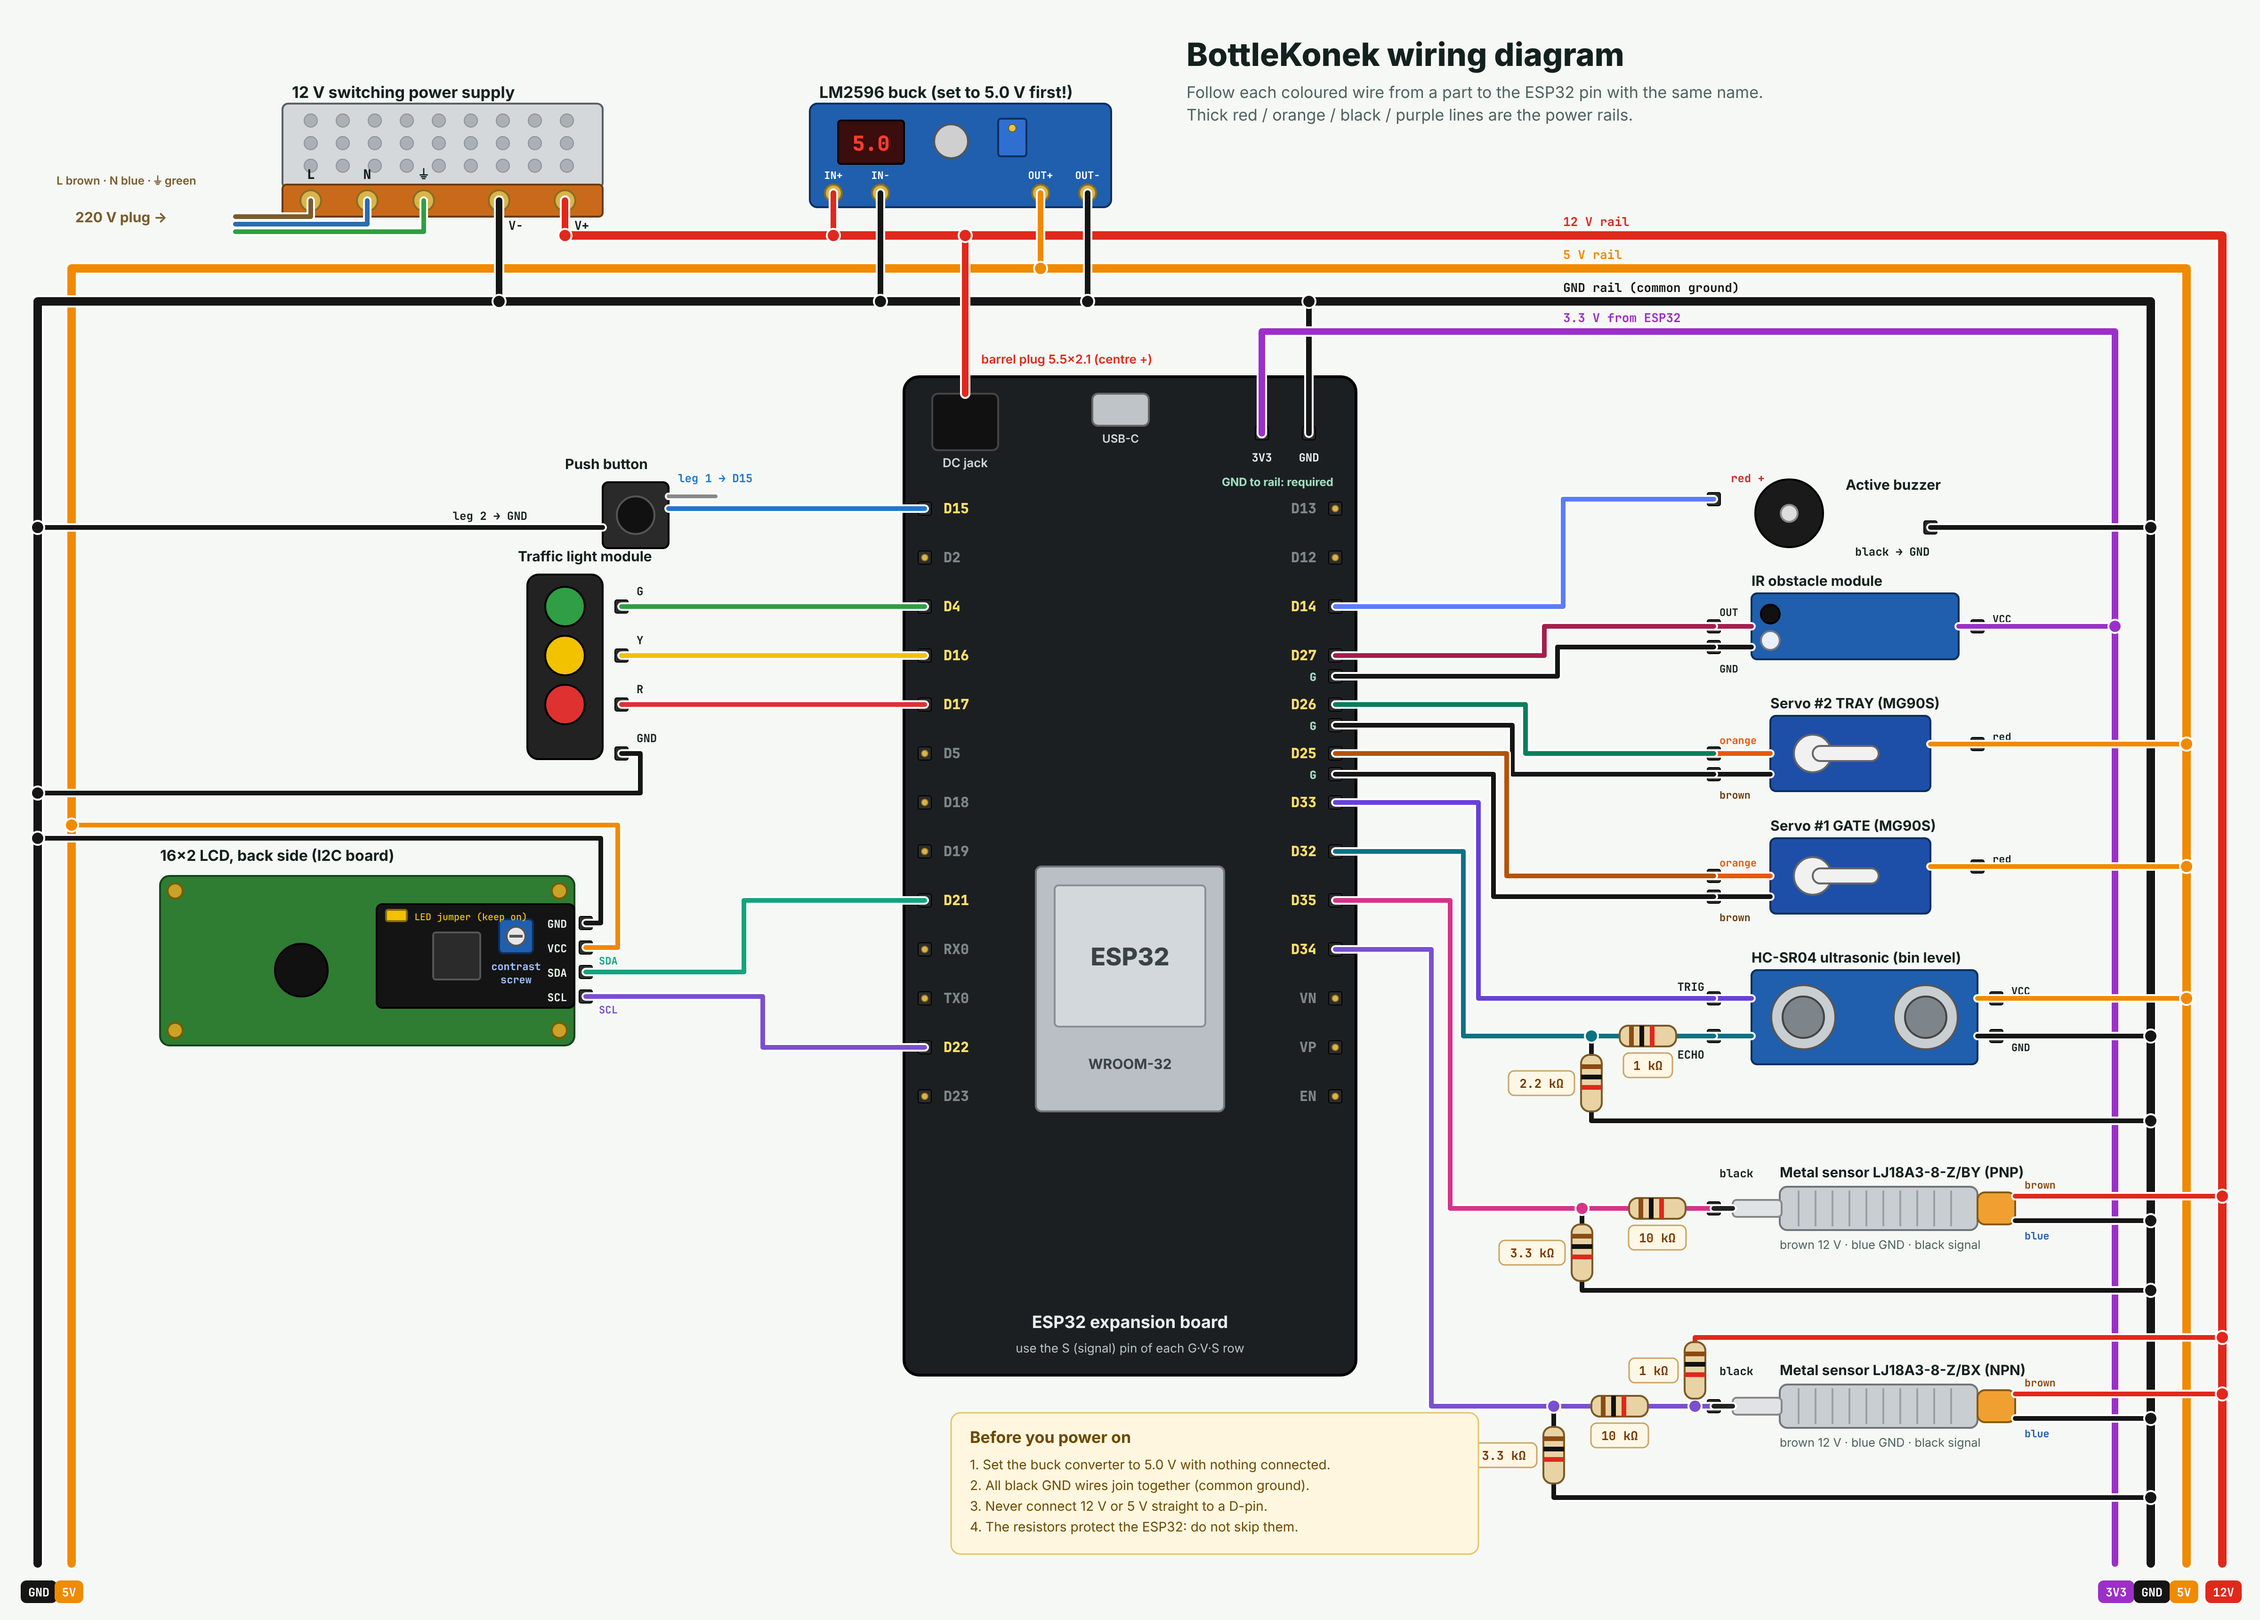
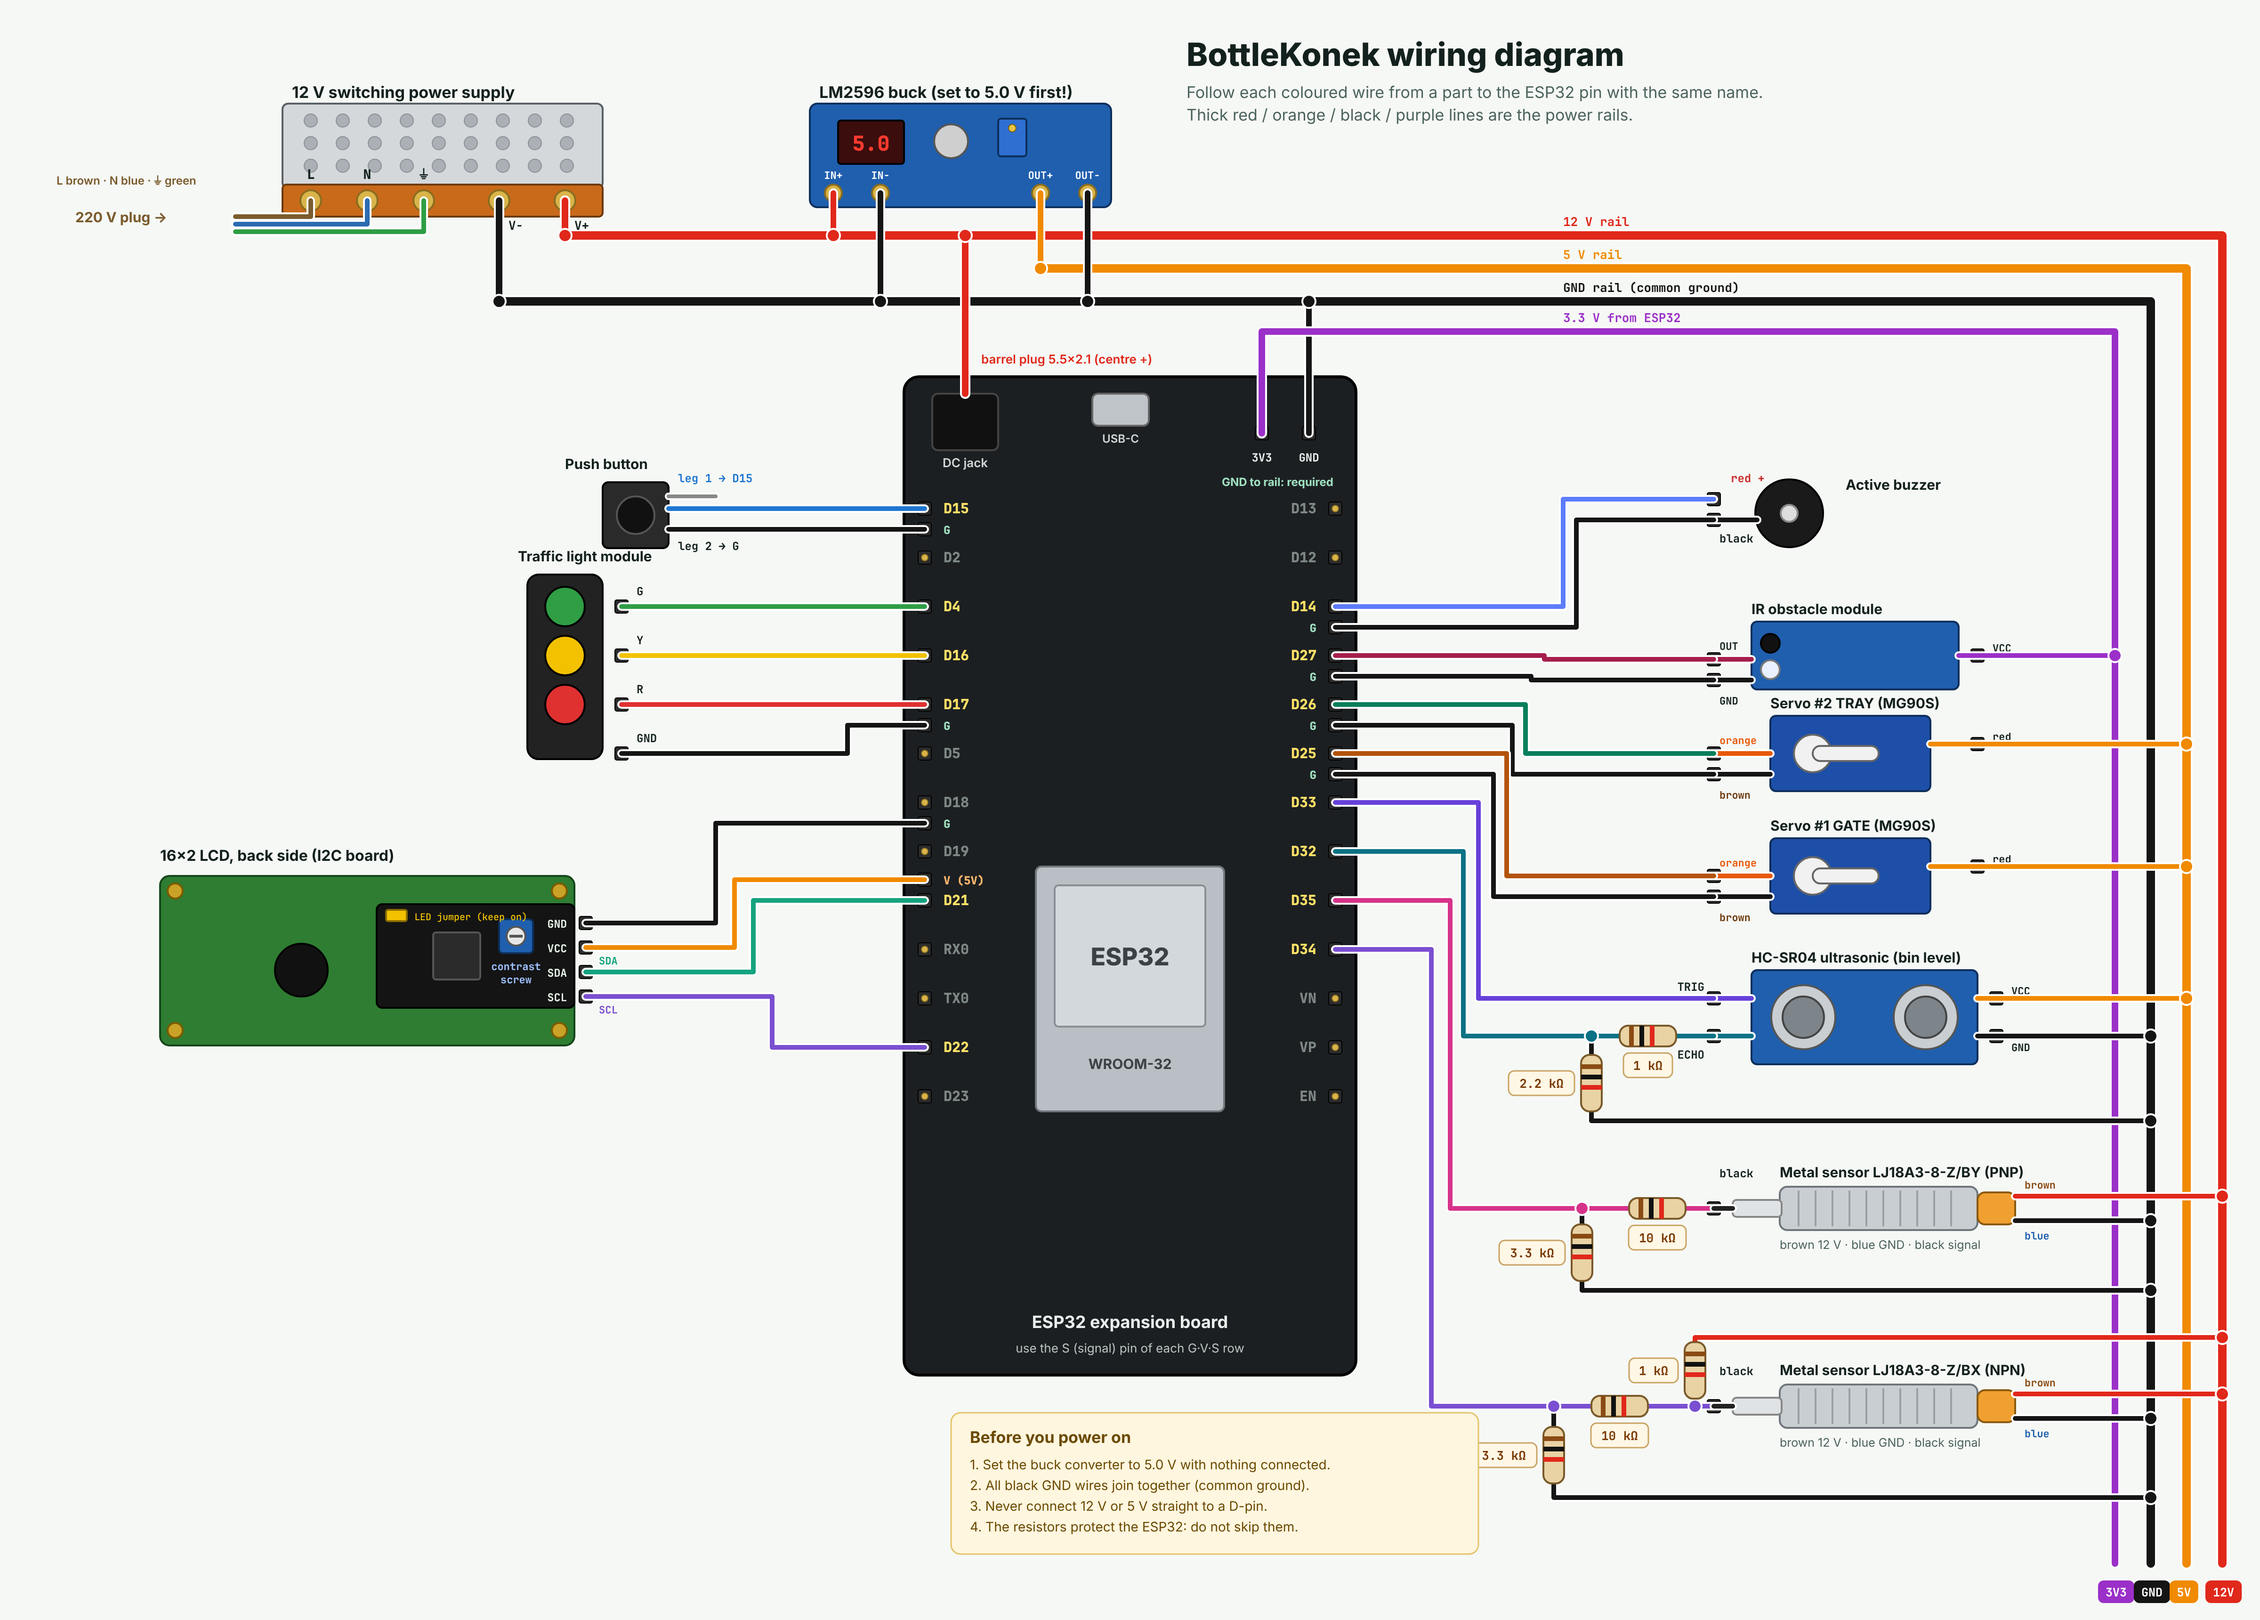
Diagram: LCD, traffic light, buzzer and button use ESP32 G/V pins; remove left rails
Claude-Session: https://claude.ai/code/session_01FLWhppZiZoj8Tbu8EAL1cu

diff --git a/firmware/make_wiring_png.py b/firmware/make_wiring_png.py
@@ -82,10 +82,8 @@ XG_L, X5_L = 40, 76
 X33_R, XG_R, X5_R, X12_R = 2246, 2284, 2322, 2360
 BOT = 1660
 wire([(600, Y12), (X12_R, Y12), (X12_R, BOT)], C['v12'], 9)
-wire([(X5_L, BOT), (X5_L, Y5), (X5_R, Y5), (X5_R, BOT)], C['v5'], 9)
-wire([(XG_L, BOT), (XG_L, YG), (XG_R, YG), (XG_R, BOT)], C['gnd'], 9)
-for x, s, col in [(XG_L, 'GND', C['gnd']), (X5_L, '5V', C['v5'])]:
-    tag(x - 18, BOT + 30, s, col)
+wire([(1105, Y5), (X5_R, Y5), (X5_R, BOT)], C['v5'], 9)
+wire([(530, YG), (XG_R, YG), (XG_R, BOT)], C['gnd'], 9)
 for x, s, col in [(X33_R, '3V3', C['v33']), (XG_R, 'GND', C['gnd']), (X5_R, '5V', C['v5']), (X12_R, '12V', C['v12'])]:
     tag(x - 18, BOT + 30, s, col)
 M(1660, Y12 - 10, '12 V rail', 13, 700, 'start', C['v12'])
@@ -180,13 +178,26 @@ def to_right_pin(name, pts, col):
     wire(pts + [(pts[-1][0], y), (RXp, y)], col)
 
 
+def left_g(name):
+    y = ry(LROWS.index(name)) + 22
+    pinhead(LX, y); M(LX + 20, y + 5, 'G', 12, 800, 'start', '#9fe0c0')
+    return y
+
+
+def left_v(name):
+    y = ry(LROWS.index(name)) - 22
+    pinhead(LX, y); M(LX + 20, y + 5, 'V (5V)', 12, 800, 'start', '#ffb86b')
+    return y
+
+
 # ---------------------------------------------------------------- LEFT: push button (D15)
 R(640, 512, 70, 70, '#2a2a2a', '#000', 6); Cc(675, 547, 20, '#111', '#555')
 T(600, 498, 'Push button', 15, 700)
 wire([(710, 527), (760, 527)], '#888', 4)
 to_left_pin('D15', [(710, 540), (900, 540)], SIGCOL[0])
-wire([(640, 560), (XG_L, 560)], C['gnd'], 5); dot(XG_L, 560, C['gnd'])
-M(720, 512, 'leg 1 → D15', 12, 700, 'start', SIGCOL[0]); M(560, 552, 'leg 2 → GND', 12, 700, 'end')
+gb = left_g('D15')
+wire([(710, gb), (LX, gb)], C['gnd'], 5)
+M(720, 512, 'leg 1 → D15', 12, 700, 'start', SIGCOL[0]); M(720, gb + 22, 'leg 2 → G', 12, 700, 'start')
 
 # ---------------------------------------------------------------- LEFT: traffic light (standing, pins on right)
 TLX, TLY = 560, 610
@@ -199,7 +210,8 @@ for n, pin, col in tl:
     to_left_pin(pin, [(TLX + 100, y), (TLX + 100, y)], col)
 gnd_y = ry(LROWS.index('D17')) + 52
 pinhead(TLX + 100, gnd_y); M(TLX + 116, gnd_y - 12, 'GND', 12, 700)
-wire([(TLX + 100, gnd_y), (TLX + 120, gnd_y), (TLX + 120, gnd_y + 42), (XG_L, gnd_y + 42)], C['gnd'], 5); dot(XG_L, gnd_y + 42, C['gnd'])
+gt = left_g('D17')
+wire([(TLX + 100, gnd_y), (900, gnd_y), (900, gt), (LX, gt)], C['gnd'], 5)
 T(TLX - 10, TLY - 14, 'Traffic light module', 15, 700)
 
 # ---------------------------------------------------------------- LEFT: 16x2 LCD with I2C board (back view)
@@ -224,12 +236,14 @@ for i, n in enumerate(['GND', 'VCC', 'SDA', 'SCL']):
     lp[n] = y
     pinhead(LCDX + 452, y); M(LCDX + 432, y + 5, n, 11.5, 700, 'end', '#e8f5e9')
 PX = LCDX + 452
-to_left_pin('D21', [(PX, lp['SDA']), (790, lp['SDA'])], SIGCOL[1])
-to_left_pin('D22', [(PX, lp['SCL']), (810, lp['SCL'])], SIGCOL[3])
+to_left_pin('D21', [(PX, lp['SDA']), (800, lp['SDA'])], SIGCOL[1])
+to_left_pin('D22', [(PX, lp['SCL']), (820, lp['SCL'])], SIGCOL[3])
 M(PX + 14, lp['SDA'] - 8, 'SDA', 11, 700, 'start', SIGCOL[1])
 M(PX + 14, lp['SCL'] + 18, 'SCL', 11, 700, 'start', SIGCOL[3])
-wire([(PX, lp['GND']), (PX + 16, lp['GND']), (PX + 16, LCDY - 40), (XG_L, LCDY - 40)], C['gnd'], 5); dot(XG_L, LCDY - 40, C['gnd'])
-wire([(PX, lp['VCC']), (PX + 34, lp['VCC']), (PX + 34, LCDY - 54), (X5_L, LCDY - 54)], C['v5'], 5); dot(X5_L, LCDY - 54, C['v5'])
+lg = left_g('D18')
+wire([(PX, lp['GND']), (760, lp['GND']), (760, lg), (LX, lg)], C['gnd'], 5)
+lv = left_v('D21')
+wire([(PX, lp['VCC']), (780, lp['VCC']), (780, lv), (LX, lv)], C['v5'], 5)
 
 # ---------------------------------------------------------------- RIGHT side parts
 CX = 1760            # left edge of right-side parts
@@ -238,11 +252,11 @@ PW = 1820            # x where signal pins sit (left edge)
 # buzzer (D14)
 Cc(1900, 545, 36, '#1a1a1a', '#000'); Cc(1900, 545, 9, '#ddd', '#888')
 T(1960, 520, 'Active buzzer', 15, 700)
-pinhead(PW, 530); pinhead(PW + 230, 560)
+pinhead(PW, 530); pinhead(PW, 552)
 M(PW + 18, 512, 'red +', 12, 700, 'start', '#c92a2a')
 to_right_pin('D14', [(PW, 530), (1660, 530)], SIGCOL[8])
-wire([(PW + 230, 560), (XG_R, 560)], C['gnd'], 5); dot(XG_R, 560, C['gnd'])
-M(PW + 150, 590, 'black → GND', 12, 700)
+wire([(PW, 552), (1866, 552)], C['gnd'], 5)
+M(PW + 6, 576, 'black', 12, 700)
 
 # ESP32 G pin next to a row's S pin (each row is G · V · S on the board)
 def board_g(name):
@@ -259,17 +273,19 @@ def gnd_to_board(name, ys, ch):
     wire([(PW, ys), (gx, ys), (gx, gy), (RXp, gy)], C['gnd'], 5)
 
 
+gnd_to_board('D14', 552, 1660)   # buzzer black
+
 # IR module (D27): OUT + GND go to the ESP32 row D27, VCC to 3V3
-R(1860, 630, 220, 70, '#1f5fae', '#0d2f5c', 6)
-Cc(1880, 652, 10, '#111', '#000'); Cc(1880, 680, 10, '#e9f0ff', '#777')
-T(1860, 622, 'IR obstacle module', 15, 700)
-pinhead(PW, 665); pinhead(PW, 687)
-M(PW + 6, 654, 'OUT', 11, 700); M(PW + 6, 714, 'GND', 11, 700)
-wire([(PW, 665), (1860, 665)], SIGCOL[9]); wire([(PW, 687), (1860, 687)], C['gnd'], 5)
-to_right_pin('D27', [(PW, 665), (1640, 665)], SIGCOL[9])
-gnd_to_board('D27', 687, 1640)
-pinhead(2100, 665); M(2116, 661, 'VCC', 11)
-wire([(2080, 665), (X33_R, 665)], C['v33'], 5); dot(X33_R, 665, C['v33'])
+R(1860, 660, 220, 72, '#1f5fae', '#0d2f5c', 6)
+Cc(1880, 683, 10, '#111', '#000'); Cc(1880, 711, 10, '#e9f0ff', '#777')
+T(1860, 652, 'IR obstacle module', 15, 700)
+pinhead(PW, 700); pinhead(PW, 722)
+M(PW + 6, 690, 'OUT', 11, 700); M(PW + 6, 748, 'GND', 11, 700)
+wire([(PW, 700), (1860, 700)], SIGCOL[9]); wire([(PW, 722), (1860, 722)], C['gnd'], 5)
+to_right_pin('D27', [(PW, 700), (1640, 700)], SIGCOL[9])
+gnd_to_board('D27', 722, 1640)
+pinhead(2100, 696); M(2116, 692, 'VCC', 11)
+wire([(2080, 696), (X33_R, 696)], C['v33'], 5); dot(X33_R, 696, C['v33'])
 
 
 def servo(y, title, pin, ch, col):
